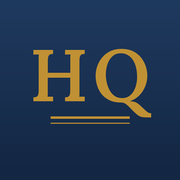
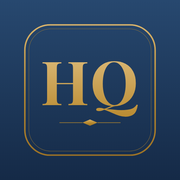
v109: the app is Shimon's HQ, with a proper mark; many-box board packs tight
New navy-and-gold HQ monogram (Playfair, double pinstripe ring) as
header logo, favicon, iOS and PWA icons - including a real maskable
icon; the dark-mode invert filter goes away since the mark carries its
own colors on both themes. App name is Shimon's HQ everywhere a name
shows (title, manifest, login, list/feed pages). The board with more
than four boxes packs newspaper-style again instead of equal grid rows,
so a short box no longer leaves a void the height of its tall neighbor.

Claude-Session: https://claude.ai/code/session_016Tj2zpKjHzsrGFQpR6sBWT

Changed region(s): [[0.1111, 0.1111, 0.8889, 0.8889]]

diff --git a/shimon-hq-app/static/style.css b/shimon-hq-app/static/style.css
@@ -953,6 +953,12 @@ form.listrespond button{font:inherit; font-size:13px; border:1px solid var(--bor
 .grid.board{display:grid; columns:auto; grid-template-columns:repeat(auto-fit, minmax(19rem, 1fr));
   gap:14px; align-items:start;}
 .grid.board section.card{margin-bottom:0;}
+/* Many boxes fall back to equal grid columns - but grid rows reserve the
+   height of the tallest box, so a short box left a void the size of its
+   tall neighbor. With more than four boxes the board packs like a
+   newspaper instead: every column tight, no voids. */
+.grid.board.masonry{display:block; columns:19rem; column-gap:14px;}
+.grid.board.masonry section.card{break-inside:avoid; margin-bottom:14px;}
 @media (min-width:1500px){ .wrap.wide{max-width:1500px; margin:0 auto;} }
 
 /* projects fold like boxes do */
@@ -1240,7 +1246,7 @@ li.prow.inboxflag .pdetail{margin-top:1px;}
 /* ---------- the owner's mark ---------- */
 .brandside{display:flex; align-items:center; gap:16px; min-width:0;}
 .hqlogo{height:52px; width:auto; flex:0 0 auto;}
-@media (prefers-color-scheme: dark){ .hqlogo, .loginlogo{filter:invert(0.92);} }
+/* the mark is navy-and-gold on both themes - no dark-mode inversion */
 .loginlogo{height:74px; width:auto; display:block; margin:0 auto 14px;}
 @media (max-width:700px){ .hqlogo{height:40px;} }
 

diff --git a/shimon-hq-app/templates/login.html b/shimon-hq-app/templates/login.html
@@ -1,10 +1,10 @@
 {% extends "base.html" %}
-{% block title %}Sign in · {{ login_title|default('Pinta HQ') }}{% endblock %}
+{% block title %}Sign in · {{ login_title|default("Shimon's HQ") }}{% endblock %}
 {% block body %}
 <div class="login-wrap">
   <form class="login-card" method="post" autocomplete="on">
     {% if has_logo %}<img class="loginlogo" src="{{ url_for('static', filename='logo.png') }}" alt="">{% endif %}
-    <h1>{{ login_title|default('Pinta HQ') }}</h1>
+    <h1>{{ login_title|default("Shimon's HQ") }}</h1>
     {% if login_sub %}<div class="sub">{{ login_sub }}</div>{% endif %}
     {% if error %}<div class="error">{{ error }}</div>{% endif %}
     <input name="username" placeholder="Username" autocapitalize="none" required>

diff --git a/shimon-hq-app/templates/list.html b/shimon-hq-app/templates/list.html
@@ -1,5 +1,5 @@
 {% extends "base.html" %}
-{% block title %}List · Pinta HQ{% endblock %}
+{% block title %}List · Shimon's HQ{% endblock %}
 {% block body %}
 <div class="wrap">
 <header class="top noprint">
@@ -36,7 +36,7 @@ or use the &#8646; button on a project's header.</p>
 <div class="agsheet revsheet">
   <div class="sheet-top">
     <div>
-      <div class="sheet-kicker">Pinta HQ &middot; shared list</div>
+      <div class="sheet-kicker">Shimon's HQ &middot; shared list</div>
       <h2 class="sheet-name">{{ session.get('name') or 'Me' }} + {{ folk[other].display_name }}</h2>
     </div>
     <div class="sheet-date">{{ today }}</div>

diff --git a/shimon-hq-app/templates/feed.html b/shimon-hq-app/templates/feed.html
@@ -1,5 +1,5 @@
 {% extends "base.html" %}
-{% block title %}Outlook sync · Pinta HQ{% endblock %}
+{% block title %}Outlook sync · Shimon's HQ{% endblock %}
 {% block body %}
 <div class="wrap">
 <header class="top">
@@ -32,7 +32,7 @@
     <ol>
       <li>outlook.office.com &rarr; Calendar</li>
       <li>Add calendar &rarr; <b>Subscribe from web</b></li>
-      <li>Paste the link, name it <b>Pinta HQ</b>, pick a color &rarr; Import</li>
+      <li>Paste the link, name it <b>Shimon's HQ</b>, pick a color &rarr; Import</li>
     </ol>
 
     <h3>Outlook on the desktop</h3>

diff --git a/shimon-hq-app/templates/base.html b/shimon-hq-app/templates/base.html
@@ -3,7 +3,7 @@
 <head>
 <meta charset="utf-8">
 <meta name="viewport" content="width=device-width, initial-scale=1, viewport-fit=cover">
-<title>{% block title %}Pinta HQ{% endblock %}</title>
+<title>{% block title %}Shimon's HQ{% endblock %}</title>
 <meta name="theme-color" content="#1F3A5F">
 <link rel="manifest" href="/manifest.webmanifest?v={{ css_v }}">
 <link rel="apple-touch-icon" href="{{ url_for('static', filename='apple-touch-icon.png') }}?v={{ css_v }}">

diff --git a/shimon-hq-app/templates/board.html b/shimon-hq-app/templates/board.html
@@ -63,7 +63,7 @@
   </div>
 </div>
 
-<div class="grid board"{% if tracks %} style="grid-template-columns:repeat({{ tracks }}, minmax(0,1fr))"{% endif %}>
+<div class="grid board{% if not tracks %} masonry{% endif %}"{% if tracks %} style="grid-template-columns:repeat({{ tracks }}, minmax(0,1fr))"{% endif %}>
 {% for sec in sections %}
 {% set items = by_sec.get(sec.id, []) %}
 {% set sec_projects = projects_by_sec.get(sec.id, []) %}

diff --git a/shimon-hq-app/app.py b/shimon-hq-app/app.py
@@ -1048,9 +1048,9 @@ def login():
             first = nm.split()[0]
             lt = ("%s' HQ" % first) if first.endswith("s") else ("%s's HQ" % first)
         else:
-            lt = "Pinta HQ"
+            lt = "Shimon's HQ"
     sub = os.environ.get("HQ_TAGLINE") or \
-        ("Pinta · Ohr Chaim · Personal" if lt == "Pinta HQ" else "")
+        ("Pinta · Ohr Chaim · Personal" if lt == "Shimon's HQ" else "")
     return render_template("login.html", error=error,
                            login_title=lt, login_sub=sub)
 
@@ -2204,7 +2204,7 @@ def inject_identity():
     """The board is named for the person looking at it, not for the person who
     happens to have built it - and dressed for them too: a tab with nothing
     behind it is furniture, so it is not shown."""
-    blank = {"board_name": "Pinta HQ", "tagline": "", "display_mode": "full",
+    blank = {"board_name": "Shimon's HQ", "tagline": "", "display_mode": "full",
              "has_brief": False, "has_cal": False, "has_pipe": False,
              "boards": [], "team": []}
     try:
@@ -3474,7 +3474,7 @@ def api_notify():
     """Send a push to Shimon's devices (used when email capture lands something new)."""
     if not _api_auth():
         abort(401)
-    title = (request.args.get("title") or "Pinta HQ").strip()
+    title = (request.args.get("title") or "Shimon's HQ").strip()
     body = (request.args.get("body") or "").strip()
     if not body:
         return "ERROR: body required", 400, {"Content-Type": "text/plain; charset=utf-8"}
